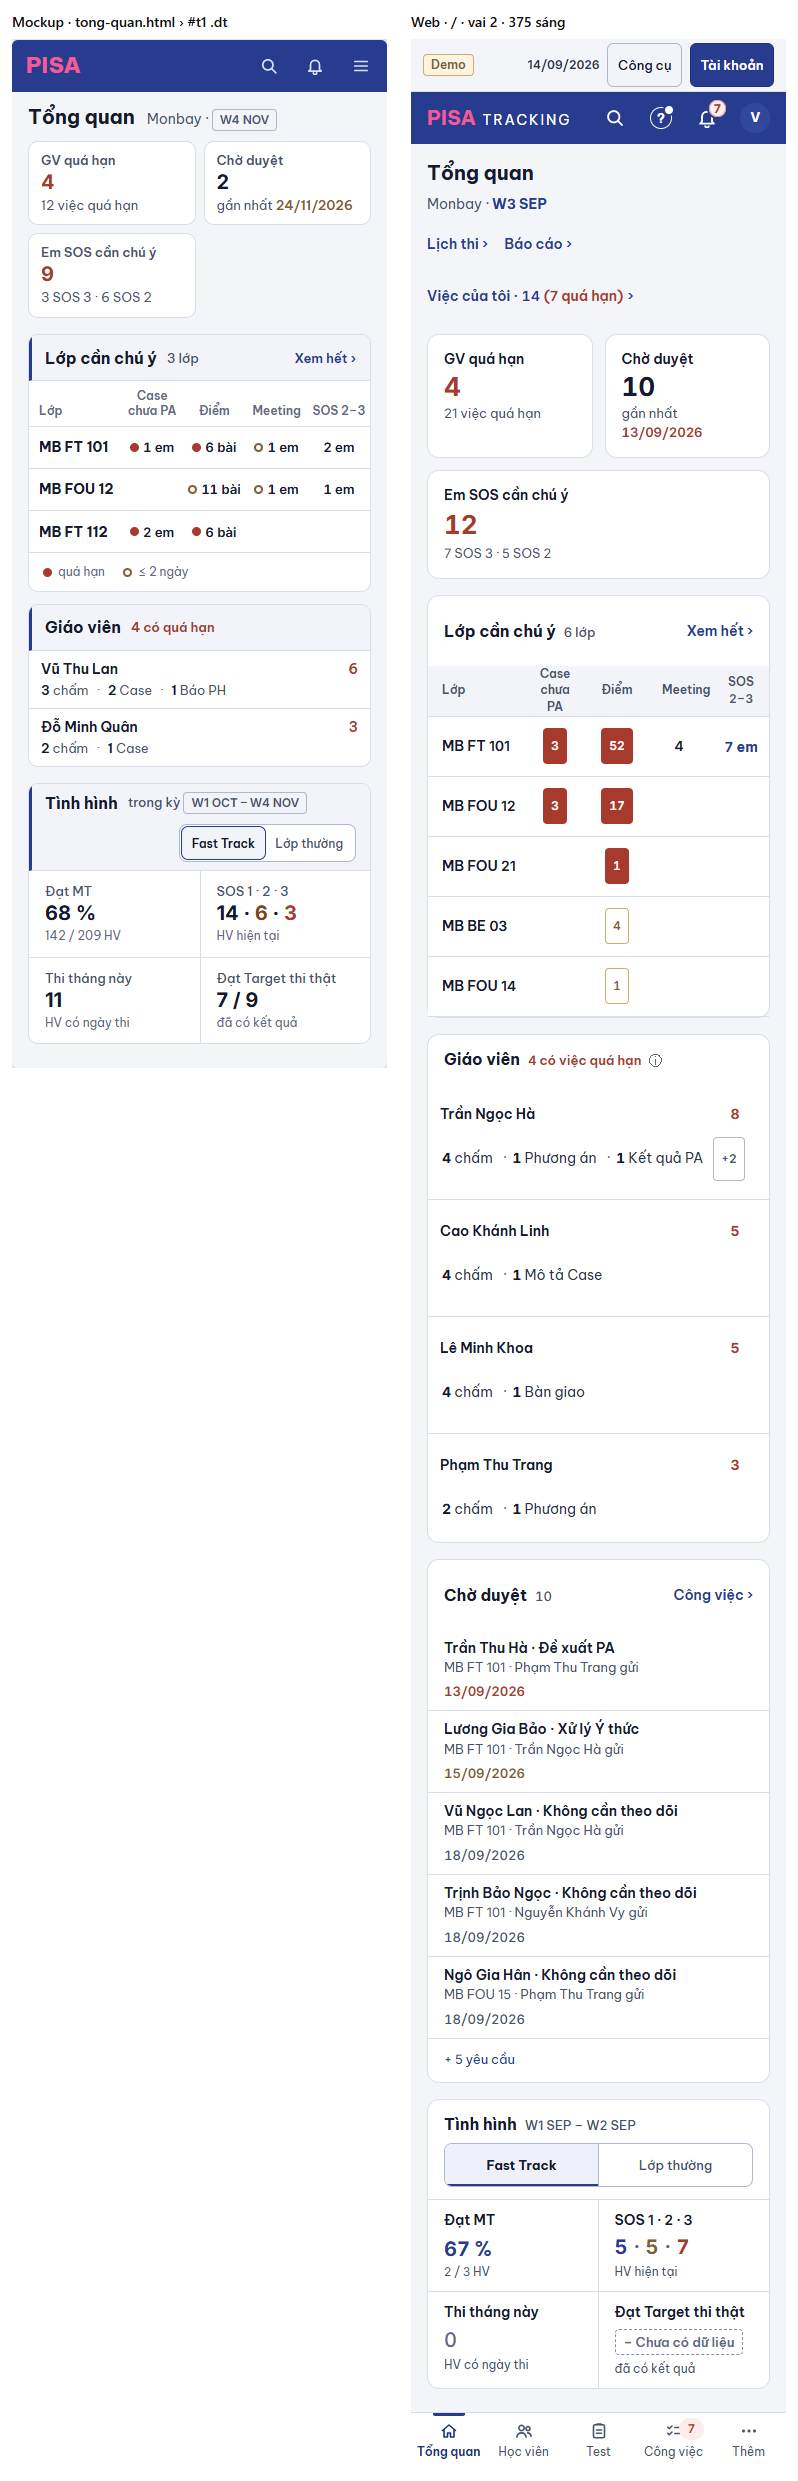
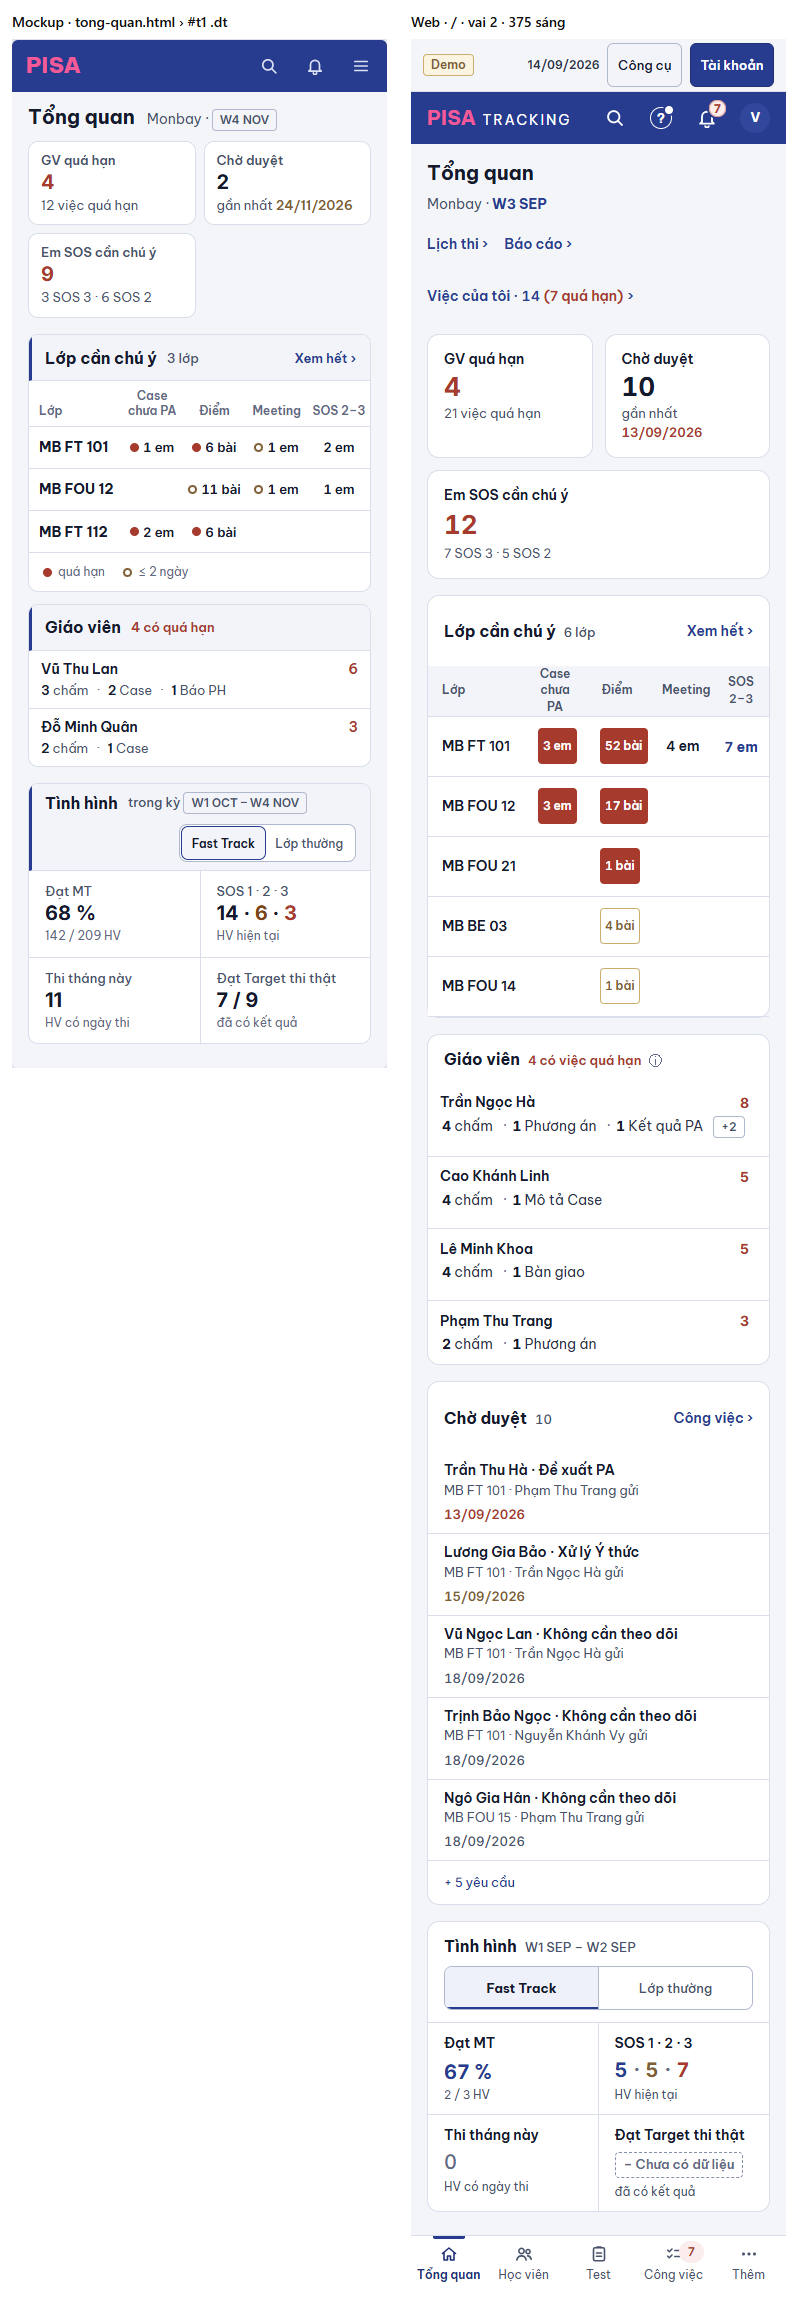
NHẸ HƠN PR-3 (PTA rà #2002): 375 — ma trận giữ đơn vị (3 em · 52 bài, V13); khối Giáo viên gọn (tên + số một hàng, loại ngay dưới, vùng chạm 44 px bằng lớp phủ)

diff --git a/web/src/modules/worklist/TongQuanVai.tsx b/web/src/modules/worklist/TongQuanVai.tsx
@@ -6,6 +6,7 @@ import { useSession } from '../../lib/session.tsx';
 import { useDemYeuCau, useDuongViecCuaToi } from '../../lib/viecCuaToi.ts';
 import { Card, ErrorState, Skeleton } from '../../ui/ui.tsx';
 import { Bang, type CotBang } from '../../ui/Bang.tsx';
+import { VUNG_BAM_SO } from '../../ui/SoLieu.tsx';
 import { OSo } from '../../ui/OSo.tsx';
 import { CHIP_SOS, CHIP_VUONG, LOP_MUC_HAN, lopSos } from '../../ui/Nhan.tsx';
 import { NutLuat } from '../../ui/NutLuat.tsx';
@@ -148,13 +149,13 @@ function LoaiGv({ loai, onLoai }: { loai: [string, number][]; onLoai: (k: string
       {hien.map(([k, n], i) => (
         <span key={k} className="inline-flex items-center whitespace-nowrap">
           {i > 0 && <span className="px-1 text-faint" aria-hidden>·</span>}
-          <button type="button" onClick={() => onLoai(k)} className="cursor-pointer rounded border-0 bg-transparent px-0.5 text-slate-200 hover:underline max-sm:min-h-[44px]">
+          <button type="button" onClick={() => onLoai(k)} className={`${VUNG_BAM_SO} cursor-pointer rounded border-0 bg-transparent px-0.5 text-slate-200 hover:underline`}>
             <b className="tabular-nums text-slate-100">{n}</b> {nhanLoaiTq(k)}
           </button>
         </span>
       ))}
       {!het && loai.length > TOI_DA_LOAI && (
-        <button type="button" onClick={() => setHet(true)} className={`${CHIP_VUONG} ml-1 cursor-pointer bg-transparent text-dim hover:text-slate-100 max-sm:min-h-[44px]`}
+        <button type="button" onClick={() => setHet(true)} className={`${CHIP_VUONG} ${VUNG_BAM_SO} ml-1 cursor-pointer bg-transparent text-dim hover:text-slate-100`}
           aria-label={t('Thêm {n} loại', { n: loai.length - TOI_DA_LOAI })}>+{loai.length - TOI_DA_LOAI}</button>
       )}
     </span>
@@ -170,7 +171,7 @@ function KhoiGiaoVien({ quaHan, tenCn, onMo }: { quaHan: Dong[]; tenCn: ((id: nu
   const lopCua = (ds: Dong[]) => [...new Set(ds.map((x) => x.classCode).filter(Boolean))].slice(0, 3).join(' · ');
   const tenGvO = (g: (typeof nhom)[number]) => (g.ownerId ? <Link to={`/giao-vien/${g.ownerId}`} className="ten-ho-so font-semibold">{tenGv(g)}</Link> : <span className="font-semibold italic text-dim">{tenGv(g)}</span>);
   const soGvO = (g: (typeof nhom)[number]) => (
-    <button type="button" onClick={() => moGv(g)} className="min-h-[36px] min-w-[36px] cursor-pointer rounded border-0 bg-transparent px-2 text-base font-bold tabular-nums text-late hover:underline max-sm:min-h-[44px] max-sm:min-w-[44px]"
+    <button type="button" onClick={() => moGv(g)} className={`${VUNG_BAM_SO} cursor-pointer rounded border-0 bg-transparent px-2 text-base font-bold tabular-nums text-late hover:underline`}
       aria-label={t('{ten}: {n} việc quá hạn', { ten: tenGv(g), n: g.viec.length })}>{g.viec.length}</button>
   );
   const moGv = (g: (typeof nhom)[number], loai?: string) => onMo({
@@ -191,8 +192,9 @@ function KhoiGiaoVien({ quaHan, tenCn, onMo }: { quaHan: Dong[]; tenCn: ((id: nu
             phuCua={(g, c) => (c.key === 'gv' ? [lopCua(g.viec), tenCn?.(g.viec[0].cn)].filter(Boolean).join(' · ') : null)}
             theRieng={(g) => (
               <>
-                <div className="flex items-center justify-between gap-3">{tenGvO(g)}{soGvO(g)}</div>
-                <LoaiGv loai={g.loai} onLoai={(k) => moGv(g, k)} />
+                {/* 375 gọn (~48 px, mockup T1b): tên + số một hàng, loại ngay dưới; vùng chạm 44 px bằng lớp phủ `VUNG_BAM_SO` (không đội cao hàng). */}
+                <div className="flex items-center justify-between gap-3 leading-tight">{tenGvO(g)}{soGvO(g)}</div>
+                <div className="mt-0.5 leading-tight"><LoaiGv loai={g.loai} onLoai={(k) => moGv(g, k)} /></div>
               </>
             )} />
           {nhom.length > hien.length && (
@@ -222,8 +224,8 @@ function OMaTran({ o, cot, lop, onBam }: { o: HangLop<Dong>['o'][CotLop]; cot: C
   /* Dấu thêm cho quá hạn = NỀN ĐẶC (không ⚠ — PTA rà #2002): đặc đỏ · viền vàng · chữ thường — khác hình, không chỉ khác màu. */
   const lopO = o.muc === 'qua' ? `${CHIP_VUONG} border-transparent bg-[rgb(var(--late-rgb))] text-[color:var(--surface)]` : o.muc === 'sap' ? `${CHIP_VUONG} border-[rgb(var(--soon-line-rgb))] text-soon` : 'px-1 text-sm font-semibold text-slate-100';
   return (
-    <button type="button" onClick={onBam} aria-label={nhan} title={nhan} className={`${lopO} cursor-pointer hover:underline max-sm:min-h-[36px]`}>
-      <span className="sm:hidden">{so}</span><span className="max-sm:hidden">{chu}</span>
+    <button type="button" onClick={onBam} aria-label={nhan} title={nhan} className={`${lopO} cursor-pointer whitespace-nowrap hover:underline max-sm:min-h-[36px] max-sm:px-1`}>
+      {chu}
     </button>
   );
 }
